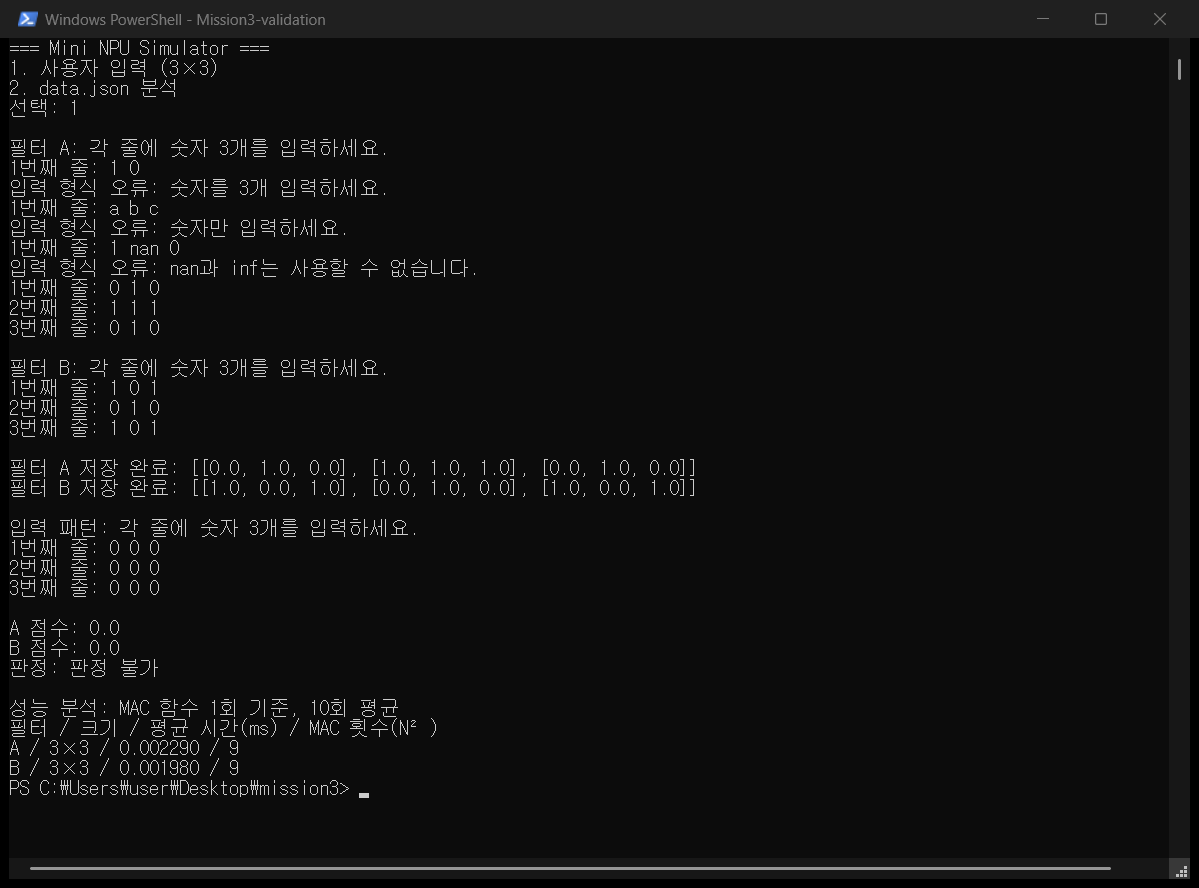
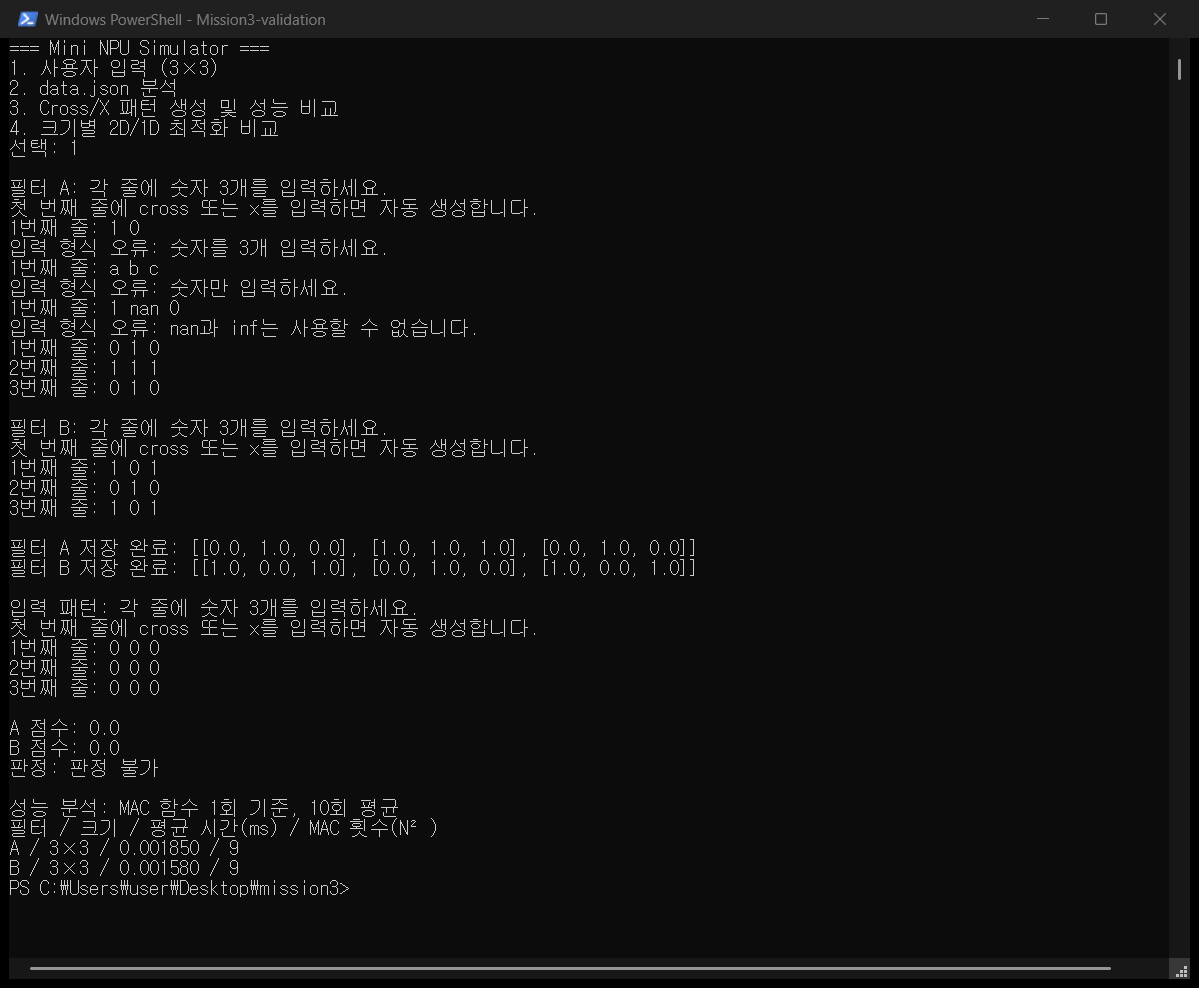
Complete bonus pattern generation and flat MAC benchmarks

diff --git a/main.py b/main.py
@@ -4,16 +4,27 @@ import math
 from pathlib import Path
 
 EPSILON = 1e-9
+BENCHMARK_REPEAT = 100
+MAX_GENERATED_SIZE = 1000
 
 # 정해진 크기의 숫자 배열을 입력받는 함수
 def read_matrix(name, size):
     matrix = []
 
     print(f"\n{name}: 각 줄에 숫자 {size}개를 입력하세요.")
+    print("첫 번째 줄에 cross 또는 x를 입력하면 자동 생성합니다.")
 
     for row in range(size):
         while True:
             line = input(f"{row + 1}번째 줄: ")
+
+            if row == 0 and line.strip().lower() in ("cross", "x"):
+                matrix = (
+                    make_cross(size) if line.strip().lower() == "cross"
+                    else make_x(size)
+                )
+                print_matrix(matrix)
+                return matrix
 
             try:
                 numbers = [float(value) for value in line.split()]
@@ -79,6 +90,92 @@ def mac(pattern, filter_data):
 
     return score
 
+
+def flatten_matrix(matrix):
+    """행 순서를 유지해 N×N 배열을 길이 N²의 리스트로 바꾼다."""
+    flat = []
+    for row in matrix:
+        for value in row:
+            flat.append(value)
+    return flat
+
+
+def mac_flat(pattern, filter_data):
+    """1차원 배열을 같은 순서로 곱하고 누적한다."""
+    if len(pattern) != len(filter_data):
+        raise ValueError("1차원 패턴과 필터 길이가 다릅니다.")
+    score = 0.0
+    for index in range(len(pattern)):
+        score += pattern[index] * filter_data[index]
+    return score
+
+
+def compare_mac(pattern, filter_data, repeat=BENCHMARK_REPEAT):
+    """같은 값과 같은 반복 횟수로 2차원·1차원 MAC을 비교한다."""
+    if isinstance(repeat, bool) or not isinstance(repeat, int) or repeat < 1:
+        raise ValueError("반복 횟수는 1 이상의 정수여야 합니다.")
+    size = len(pattern)
+    validate_size(size)
+    validate_matrix(pattern, size, "입력 패턴")
+    validate_matrix(filter_data, size, "필터")
+
+    conversion_start = time.perf_counter()
+    flat_pattern = flatten_matrix(pattern)
+    flat_filter = flatten_matrix(filter_data)
+    conversion_ms = (time.perf_counter() - conversion_start) * 1000
+
+    # 정확성을 먼저 확인하고, 첫 호출의 영향을 줄인 뒤 시간을 측정한다.
+    score_2d = mac(pattern, filter_data)
+    score_1d = mac_flat(flat_pattern, flat_filter)
+    if score_2d != score_1d:
+        raise ValueError("2차원과 1차원 MAC 점수가 다릅니다.")
+
+    total = {"2D": 0.0, "1D": 0.0}
+    operations = (
+        ("2D", mac, pattern, filter_data),
+        ("1D", mac_flat, flat_pattern, flat_filter),
+    )
+    for index in range(repeat):
+        # 순서를 번갈아 실행해 한쪽이 항상 먼저 실행되는 영향을 줄인다.
+        order = operations if index % 2 == 0 else operations[::-1]
+        for name, operation, values, weights in order:
+            start = time.perf_counter()
+            operation(values, weights)
+            end = time.perf_counter()
+            total[name] += end - start
+
+    average_2d = total["2D"] / repeat * 1000
+    average_1d = total["1D"] / repeat * 1000
+    return {
+        "size": size,
+        "repeat": repeat,
+        "score_2d": score_2d,
+        "score_1d": score_1d,
+        "time_2d_ms": average_2d,
+        "time_1d_ms": average_1d,
+        "conversion_ms": conversion_ms,
+        "speedup": average_2d / average_1d if average_1d > 0 else None,
+    }
+
+
+def print_comparison(results):
+    print("\n[1차원 배열 최적화 비교]")
+    print(f"동일 입력, 각 방식 {results[0]['repeat']}회 평균 / 시간 단위: ms")
+    print("변환은 패턴·필터 두 배열을 1회 변환한 시간이며 MAC 평균에서 제외")
+    print("크기 / 2D 평균 / 1D 평균 / 2D÷1D / 변환 시간 / 점수 일치")
+    for result in results:
+        ratio = (
+            f"{result['speedup']:.2f}배" if result["speedup"] is not None
+            else "측정 불가"
+        )
+        size = result["size"]
+        print(
+            f"{size}×{size} / {result['time_2d_ms']:.6f} / "
+            f"{result['time_1d_ms']:.6f} / {ratio} / "
+            f"{result['conversion_ms']:.6f} / PASS"
+        )
+    print("2D÷1D가 1보다 크면 해당 실행에서는 1D 계산이 더 빠릅니다.")
+
 # MAC 함수 한 번의 실행 시간을 반복 측정해 평균 내기
 def measure_mac(pattern, filter_data, repeat=10):
     total_seconds = 0.0
@@ -142,8 +239,14 @@ def normalize_label(label):
             f"알 수 없는 라벨: {label!r}. 허용 예: +, cross, Cross, x, X"
         )
 
+def validate_size(size):
+    if isinstance(size, bool) or not isinstance(size, int) or size < 1:
+        raise ValueError("크기는 1 이상의 정수여야 합니다.")
+
+
 # 지정한 크기의 십자가 배열 생성
 def make_cross(size):
+    validate_size(size)
     matrix = []
     center = size // 2
 
@@ -159,6 +262,65 @@ def make_cross(size):
         matrix.append(line)
 
     return matrix
+
+
+def make_x(size):
+    validate_size(size)
+    matrix = []
+    for row in range(size):
+        line = []
+        for col in range(size):
+            line.append(1.0 if row == col or row + col == size - 1 else 0.0)
+        matrix.append(line)
+    return matrix
+
+
+def print_matrix(matrix):
+    # 큰 배열도 생성·계산하되, 콘솔에 수백만 칸을 출력하지 않는다.
+    if len(matrix) > 25:
+        print(f"{len(matrix)}×{len(matrix)} 배열 생성 완료 (25 초과는 화면 출력 생략)")
+        return
+    for row in matrix:
+        print(" ".join(f"{value:g}" for value in row))
+
+
+def run_generator():
+    while True:
+        try:
+            size = int(input(f"패턴 크기 N (1~{MAX_GENERATED_SIZE}): "))
+            if not 1 <= size <= MAX_GENERATED_SIZE:
+                raise ValueError
+            break
+        except ValueError:
+            print(f"1~{MAX_GENERATED_SIZE} 사이의 정수를 입력하세요.")
+
+    cross = make_cross(size)
+    x = make_x(size)
+    print("\n[생성한 Cross]")
+    print_matrix(cross)
+    print("\n[생성한 X]")
+    print_matrix(x)
+
+    print("\n[생성 패턴 판정]")
+    for name, pattern in (("Cross", cross), ("X", x)):
+        cross_score = mac(pattern, cross)
+        x_score = mac(pattern, x)
+        if abs(cross_score - x_score) < EPSILON:
+            result = "UNDECIDED"
+        else:
+            result = "Cross" if cross_score > x_score else "X"
+        print(f"{name} 입력: Cross={cross_score:g}, X={x_score:g}, 판정={result}")
+    print("크기가 작아 두 모양이 같으면 UNDECIDED가 나올 수 있습니다.")
+    print_comparison([compare_mac(cross, cross)])
+
+
+def run_optimization():
+    results = []
+    for size in (3, 5, 13, 25):
+        pattern = make_cross(size)
+        filter_data = make_cross(size)
+        results.append(compare_mac(pattern, filter_data))
+    print_comparison(results)
 
 # 크기별 MAC 성능 측정
 def print_json_performance():
@@ -343,6 +505,8 @@ def main():
     print("=== Mini NPU Simulator ===")
     print("1. 사용자 입력 (3×3)")
     print("2. data.json 분석")
+    print("3. Cross/X 패턴 생성 및 성능 비교")
+    print("4. 크기별 2D/1D 최적화 비교")
 
     while True:
         choice = input("선택: ").strip()
@@ -353,8 +517,14 @@ def main():
         elif choice == "2":
             run_json()
             break
+        elif choice == "3":
+            run_generator()
+            break
+        elif choice == "4":
+            run_optimization()
+            break
         else:
-            print("1 또는 2를 입력하세요.")
+            print("1, 2, 3, 4 중 하나를 입력하세요.")
 
 
 if __name__ == "__main__":

diff --git a/test_main.py b/test_main.py
@@ -1,0 +1,107 @@
+"""기본 계산과 보너스 기능 검증. 실행: py -m unittest -v"""
+import contextlib
+import copy
+import io
+import random
+import unittest
+from unittest.mock import patch
+
+import main
+
+
+class BonusTests(unittest.TestCase):
+    def test_generated_three_by_three(self):
+        self.assertEqual(main.make_cross(3), [[0, 1, 0], [1, 1, 1], [0, 1, 0]])
+        self.assertEqual(main.make_x(3), [[1, 0, 1], [0, 1, 0], [1, 0, 1]])
+
+    def test_generated_sizes_and_even_center(self):
+        self.assertEqual(main.make_cross(4), [
+            [0, 0, 1, 0], [0, 0, 1, 0], [1, 1, 1, 1], [0, 0, 1, 0],
+        ])
+        self.assertEqual(main.make_x(4), [
+            [1, 0, 0, 1], [0, 1, 1, 0], [0, 1, 1, 0], [1, 0, 0, 1],
+        ])
+        for size in (1, 3, 5, 13, 25):
+            self.assertEqual(sum(map(sum, main.make_cross(size))), 2 * size - 1)
+            self.assertEqual(sum(map(sum, main.make_x(size))), 2 * size - 1)
+
+    def test_invalid_sizes(self):
+        for size in (0, -1, 2.5, True, "3"):
+            for generate in (main.make_cross, main.make_x):
+                with self.subTest(size=size, function=generate.__name__):
+                    with self.assertRaises(ValueError):
+                        generate(size)
+
+    def test_flatten_row_order(self):
+        self.assertEqual(main.flatten_matrix([[1, 2, 3], [4, 5, 6], [7, 8, 9]]), list(range(1, 10)))
+
+    def test_known_mac_and_length_error(self):
+        self.assertEqual(main.mac_flat(list(range(1, 10)), list(range(1, 10))), 285)
+        self.assertEqual(main.mac_flat([1.5, -2, 0.25], [2, 3, -4]), -4)
+        with self.assertRaises(ValueError):
+            main.mac_flat([1, 2], [1])
+
+    def test_flat_mac_matches_real_patterns_and_decimal_data(self):
+        rng = random.Random(3)
+        for size in (1, 3, 5, 13, 25):
+            values = [[rng.uniform(-3, 3) for _ in range(size)] for _ in range(size)]
+            weights = [[rng.uniform(-2, 2) for _ in range(size)] for _ in range(size)]
+            self.assertEqual(main.mac(values, weights), main.mac_flat(
+                main.flatten_matrix(values), main.flatten_matrix(weights),
+            ))
+        cross, x = main.make_cross(3), main.make_x(3)
+        self.assertEqual(main.mac_flat(main.flatten_matrix(cross), main.flatten_matrix(x)), 1)
+
+    def test_benchmark_input_repeat_and_score(self):
+        values, weights = main.make_cross(5), main.make_cross(5)
+        original = copy.deepcopy((values, weights))
+        with patch.object(main, "mac", wraps=main.mac) as two_d:
+            with patch.object(main, "mac_flat", wraps=main.mac_flat) as one_d:
+                result = main.compare_mac(values, weights, repeat=10)
+        # 정확성 확인 1회 + 측정 10회씩 동일하게 호출되어야 한다.
+        self.assertEqual(two_d.call_count, 11)
+        self.assertEqual(one_d.call_count, 11)
+        self.assertEqual((values, weights), original)
+        self.assertEqual(result["repeat"], 10)
+        self.assertEqual(result["score_2d"], 9)
+        self.assertEqual(result["score_1d"], 9)
+        for key in ("time_2d_ms", "time_1d_ms", "conversion_ms"):
+            self.assertGreaterEqual(result[key], 0)
+        for repeat in (0, -1, True, 1.5):
+            with self.assertRaises(ValueError):
+                main.compare_mac(values, weights, repeat)
+
+    def test_manual_can_reuse_generated_filters_and_pattern(self):
+        output = io.StringIO()
+        with patch("builtins.input", side_effect=["cross", "x", "x"]):
+            with contextlib.redirect_stdout(output):
+                main.run_manual()
+        self.assertIn("A 점수: 1.0", output.getvalue())
+        self.assertIn("B 점수: 5.0", output.getvalue())
+        self.assertIn("판정: B", output.getvalue())
+
+    def test_generator_retries_and_classifies(self):
+        output = io.StringIO()
+        with patch("builtins.input", side_effect=["abc", "0", "1001", "5"]):
+            with contextlib.redirect_stdout(output):
+                main.run_generator()
+        text = output.getvalue()
+        self.assertEqual(text.count("사이의 정수를 입력하세요."), 3)
+        self.assertIn("Cross 입력: Cross=9, X=1, 판정=Cross", text)
+        self.assertIn("X 입력: Cross=1, X=9, 판정=X", text)
+        self.assertIn("100회 평균", text)
+
+    def test_one_cell_tie_and_large_preview(self):
+        output = io.StringIO()
+        with patch("builtins.input", return_value="1"):
+            with contextlib.redirect_stdout(output):
+                main.run_generator()
+        self.assertEqual(output.getvalue().count("판정=UNDECIDED"), 2)
+        output = io.StringIO()
+        with contextlib.redirect_stdout(output):
+            main.print_matrix(main.make_x(26))
+        self.assertIn("26×26 배열 생성 완료", output.getvalue())
+
+
+if __name__ == "__main__":
+    unittest.main()
